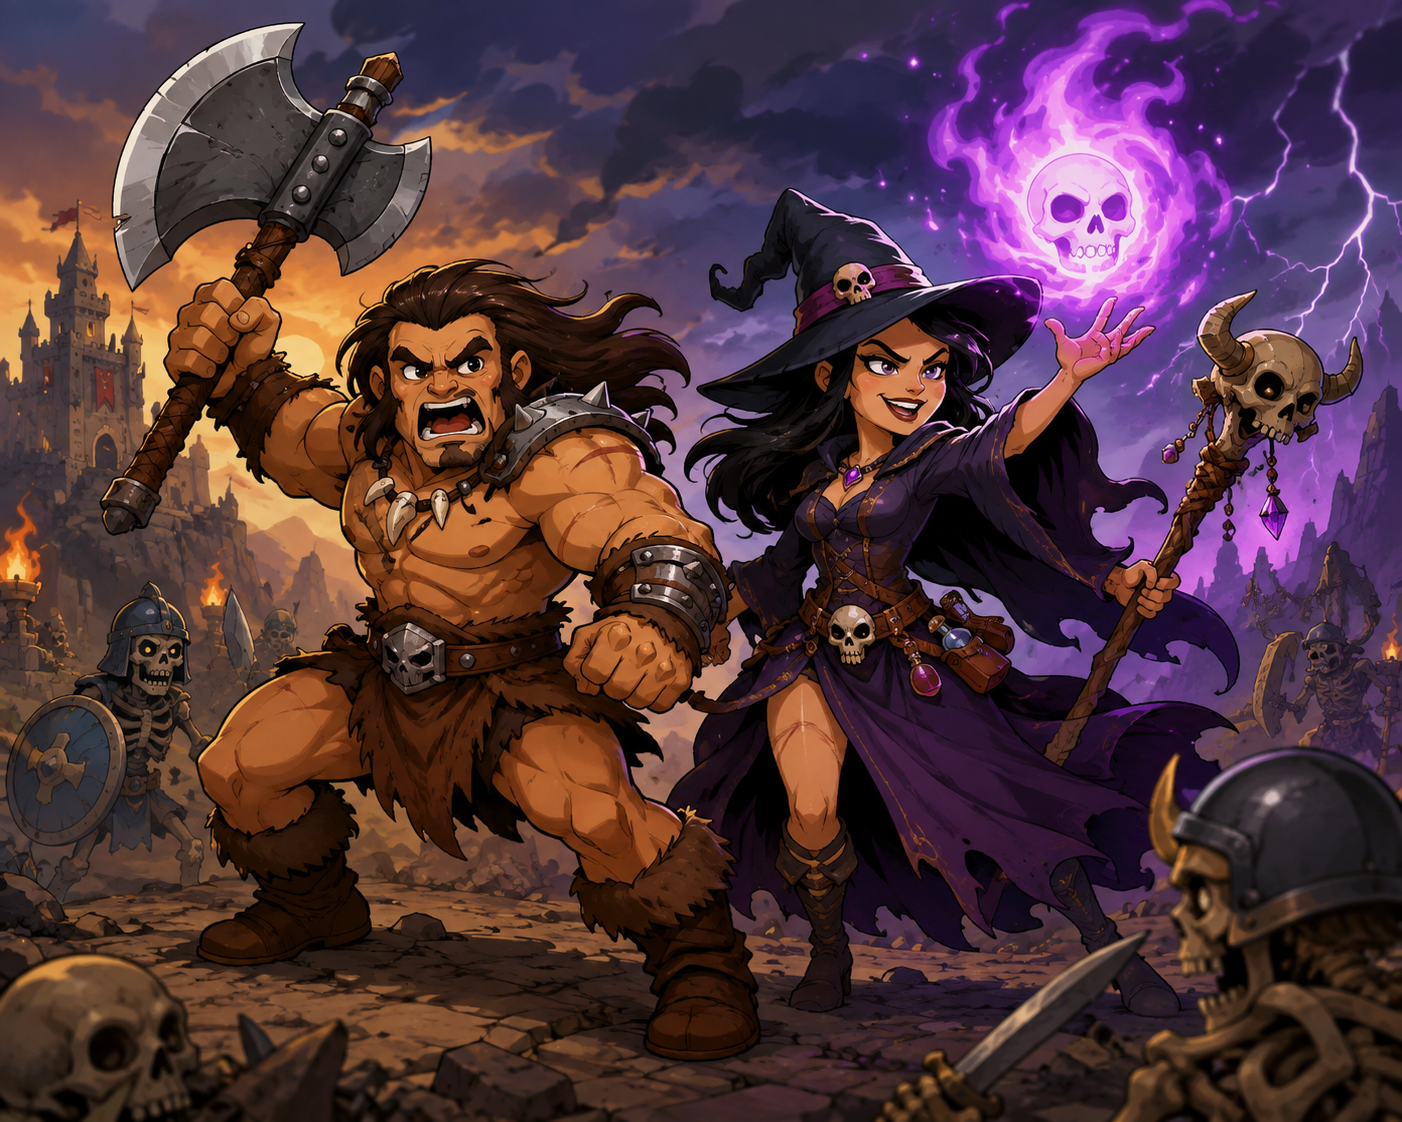
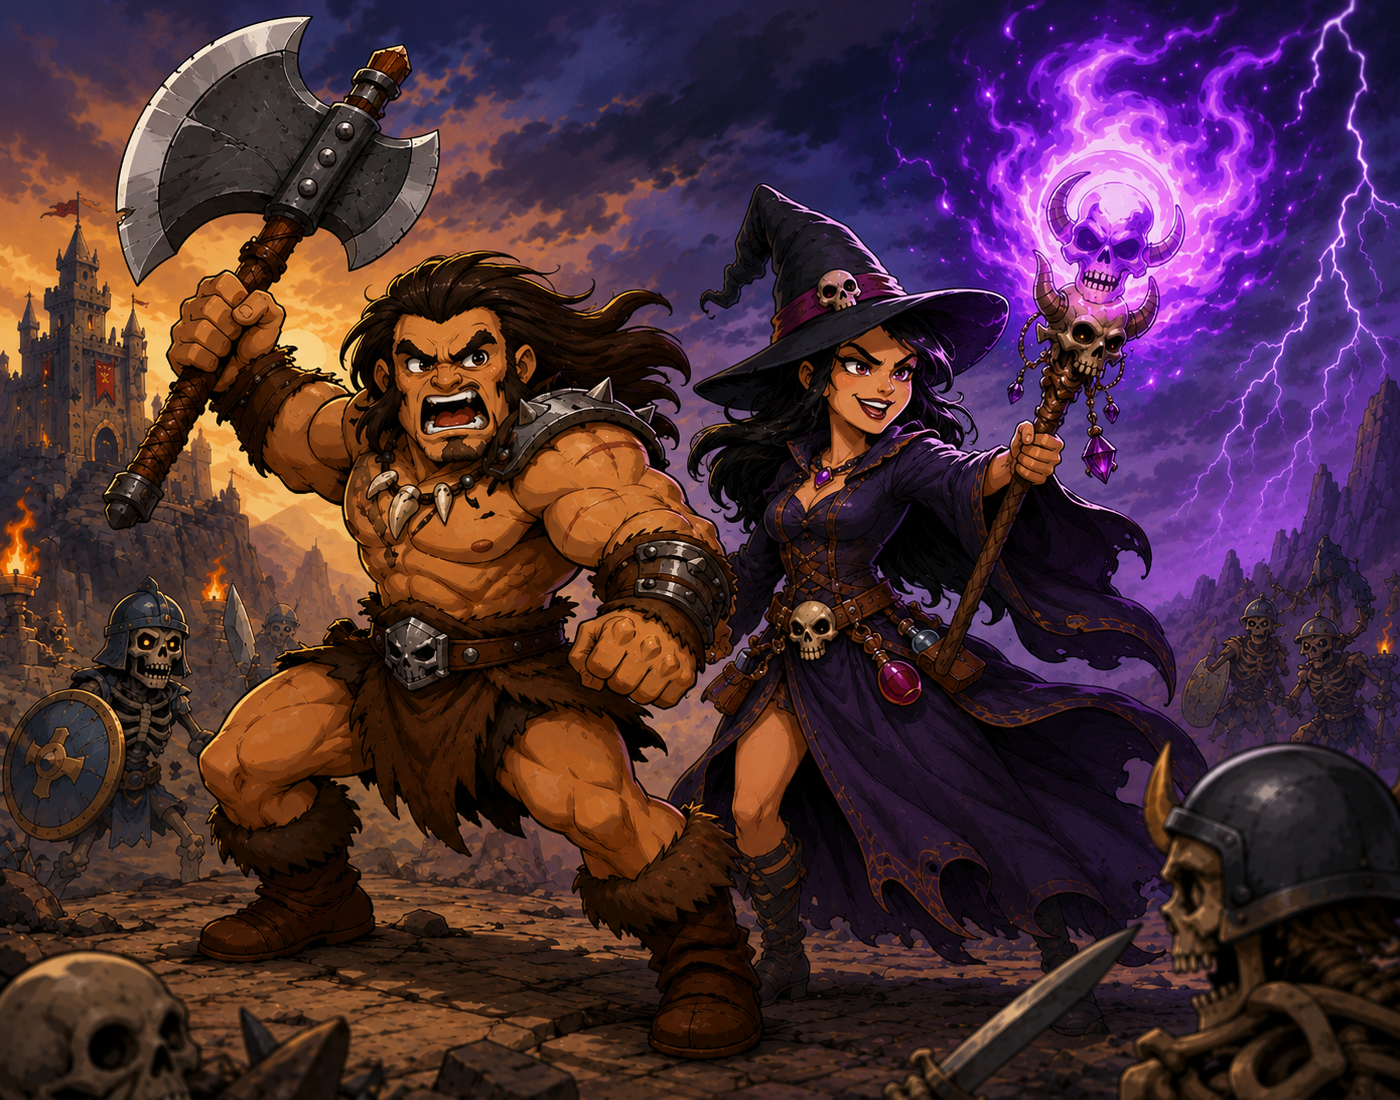
Improved hero image

diff --git a/app/page.tsx b/app/page.tsx
@@ -6,13 +6,13 @@ export default function Home() {
   return (
     <div>
       <main>
-        <h3 className={`${cinzel.className} antialiased`}>Welcome to TableRunner</h3>
+        <h2 className={`${cinzel.className} antialiased`}>TableRunner</h2>
         <p>Scan the QR code on a supported game board to start playing!</p>
 
         <Image
           src="/hero-barbarian-witch.png"
-          width={1000}
-          height={760}
+          width={1400}
+          height={1100}
           className={styles.heroImage}
           alt="The Hero image for TableRunner, showing a barbarian and a witch"
         />

diff --git a/app/globals.css b/app/globals.css
@@ -132,11 +132,13 @@ h1 {
   margin-bottom: 1.5rem;
   text-align: center;
   color: var(--gold-bright);
+  text-align: center;
 }
 
 h2 {
   font-size: 1.8rem;
   margin-top: 1.5rem;
+  text-align: center;
 }
 
 h3 {
